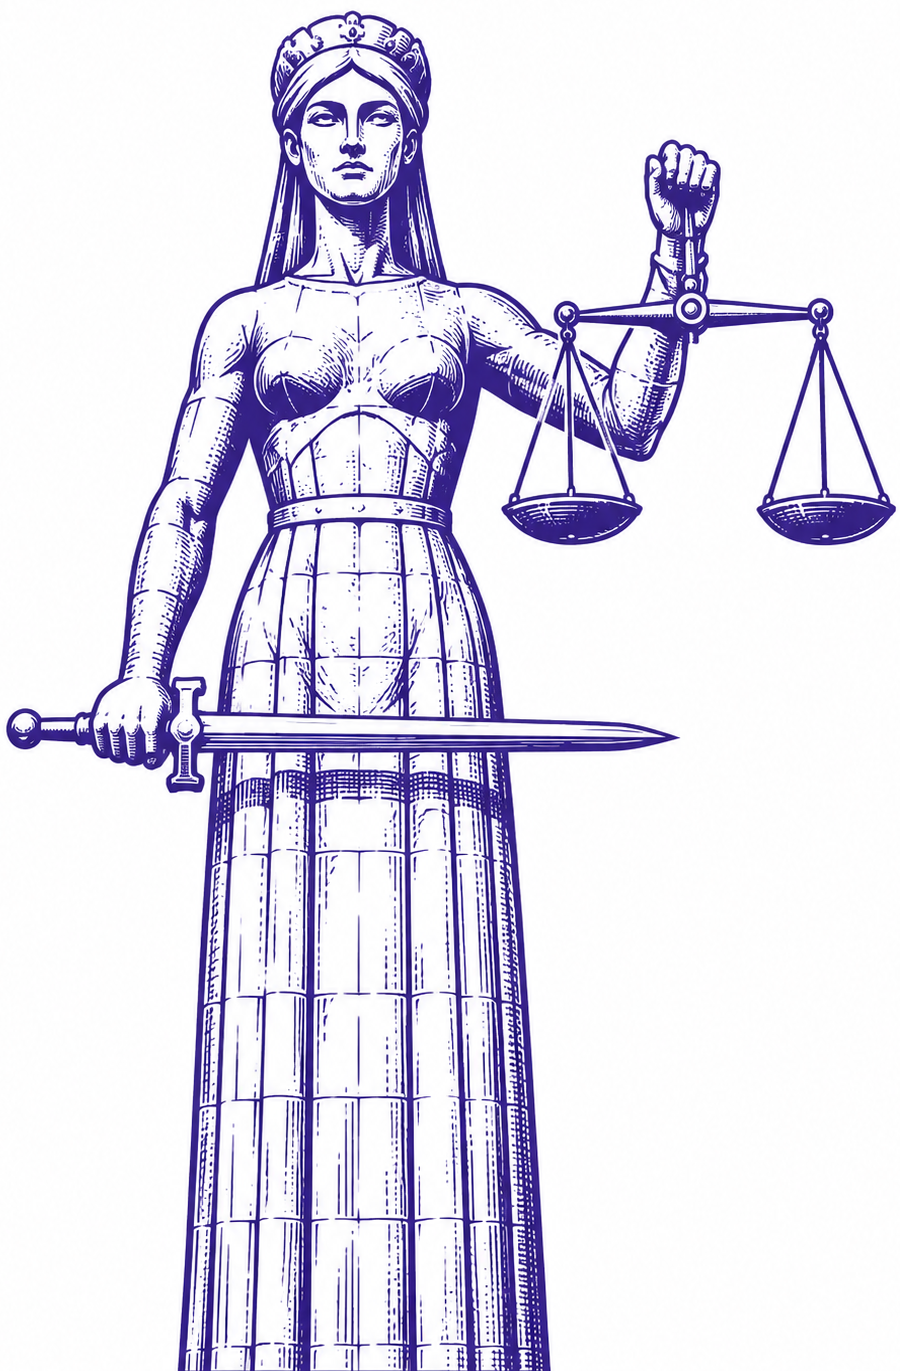
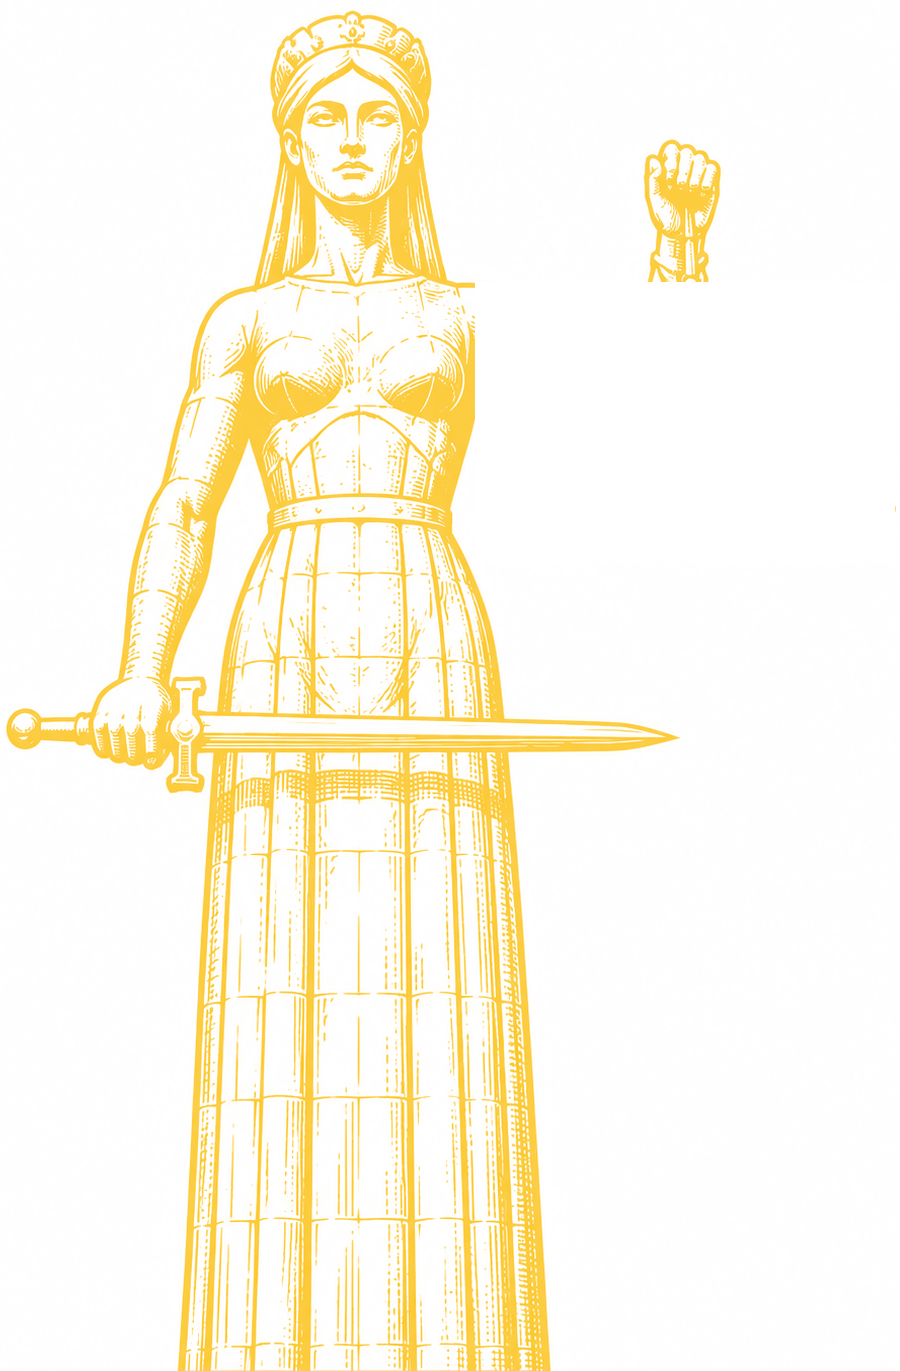
style: hero statue scale overlay, drop unused float animation
Split the Kartlis Deda statue into a static base image plus a
separately animated scale overlay so only the scale swings, not the
whole statue. Removes the now-unused float/float-in keyframes and
classes.

Changed region(s): [[0.0, 0.0, 0.9956, 1.0]]

diff --git a/src/app/page.tsx b/src/app/page.tsx
@@ -122,16 +122,25 @@ export default async function Home() {
       {/* ── HERO ── */}
       {sections.hero !== false && (
         <section className="relative overflow-hidden bg-slate-900">
-          {/* Statue — high contrast kills background artifacts; sepia+hue push lines to gold matching text */}
-          <div className="absolute inset-y-0 right-0 w-full lg:w-[62%] flex items-end justify-center pointer-events-none select-none animate-float-in">
-            {/* eslint-disable-next-line @next/next/no-img-element */}
-            <img
-              src="/kartlis_deda_5.png"
-              alt=""
-              aria-hidden="true"
-              className="h-full w-auto object-contain mix-blend-screen"
-              style={{ filter: "invert(1) sepia(1) saturate(4.8) hue-rotate(12deg) contrast(2.4) brightness(1.0)" }}
-            />
+          {/* Statue is static; the scale mechanism is a separate overlay layer so only it can swing */}
+          <div className="absolute inset-y-0 right-0 w-full lg:w-[62%] flex items-end justify-center pointer-events-none select-none">
+            <div className="relative h-full" style={{ aspectRatio: "900 / 1371" }}>
+              {/* eslint-disable-next-line @next/next/no-img-element */}
+              <img
+                src="/kartlis_deda_5.png"
+                alt=""
+                aria-hidden="true"
+                className="absolute inset-0 h-full w-full object-contain"
+              />
+              {/* eslint-disable-next-line @next/next/no-img-element */}
+              <img
+                src="/kartlis_deda_scale.png"
+                alt=""
+                aria-hidden="true"
+                className="absolute animate-scale-sway object-contain"
+                style={{ left: "52.78%", top: "20.57%", width: "46.67%", height: "20.42%" }}
+              />
+            </div>
           </div>
 
           <div className="relative container mx-auto px-4">

diff --git a/src/app/globals.css b/src/app/globals.css
@@ -150,11 +150,6 @@
   to   { opacity: 1; }
 }
 
-@keyframes float {
-  0%, 100% { transform: translateY(0);   }
-  50%       { transform: translateY(-8px); }
-}
-
 @keyframes scale-sway {
   0%, 100% { transform: rotate(-2.5deg); }
   50%       { transform: rotate(2.5deg);  }
@@ -172,18 +167,10 @@
 .animate-fade-in {
   animation: fade-in 0.5s ease-out both;
 }
-.animate-float {
-  animation: float 7s ease-in-out infinite;
-}
-/* Combined: fade-in once then float forever.
-   Two separate classes would cascade-override each other's animation property. */
-.animate-float-in {
-  animation: fade-in 0.5s ease-out both, float 7s ease-in-out infinite;
-}
 .animate-scale-sway {
   animation: scale-sway 4s ease-in-out infinite;
   transform-box: fill-box;
-  transform-origin: center top;
+  transform-origin: 20% 24%;
 }
 
 /* ── Animation delays ────────────────────────────────────────────────────── */
@@ -197,8 +184,6 @@
 @media (prefers-reduced-motion: reduce) {
   .animate-fade-up,
   .animate-fade-in,
-  .animate-float,
-  .animate-float-in,
   .animate-scale-sway {
     animation: none;
   }